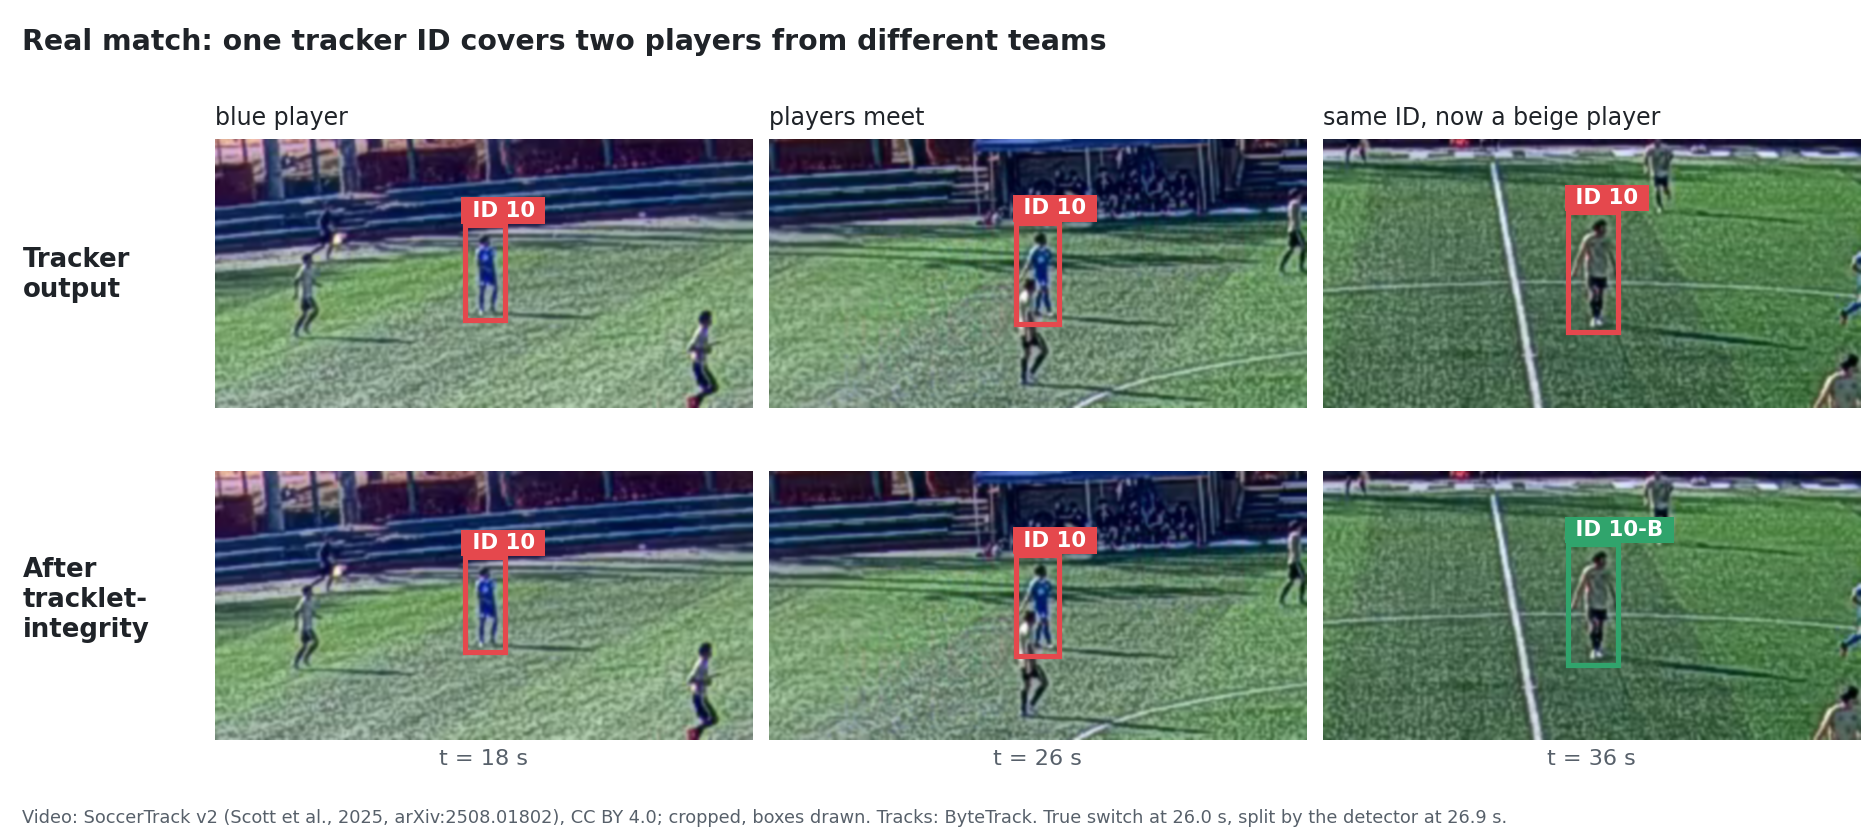
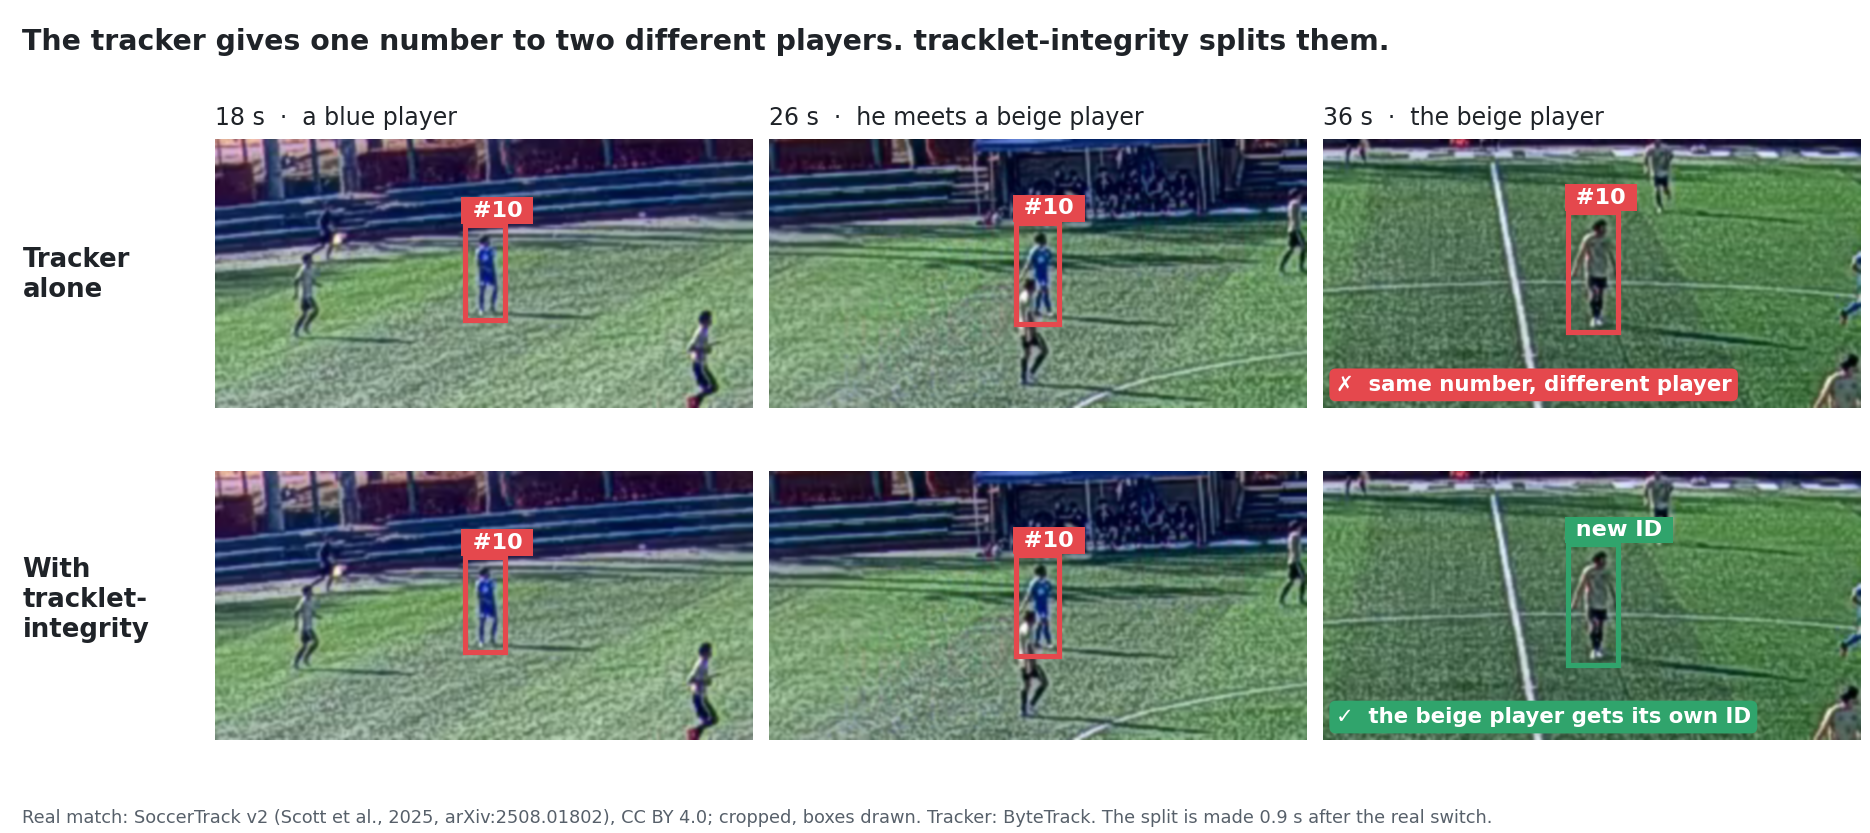
Clearer real-match figure

diff --git a/README.md b/README.md
@@ -7,7 +7,7 @@ continues on the wrong player. The track looks continuous, yet every number comp
 (distance, heatmap, sprints) mixes two people. This project takes finished tracks, finds the ones
 that contain more than one identity, and cuts them at the frame where the switch happened.
 
-<img src="assets/real_switch.png" alt="Real match: tracker ID 10 starts on a blue player and ends on a beige one; after splitting, the beige part becomes ID 10-B" width="900">
+<img src="assets/real_switch.png" alt="Real match: the tracker gives number 10 first to a blue player, then to a beige player; after splitting, the beige player gets its own ID" width="900">
 
 *A real case from a public full-pitch match ([SoccerTrack v2](https://github.com/AtomScott/SoccerTrack-v2), CC BY 4.0), tracked with ByteTrack.*
 
